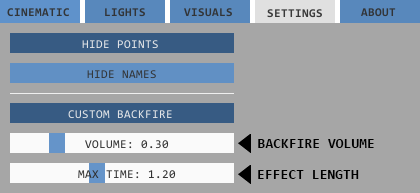
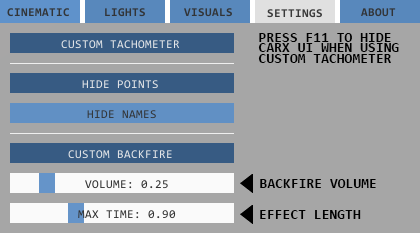
update readme for new release

diff --git a/README.md b/README.md
@@ -42,7 +42,7 @@ There you can set the starting and the ending points of your replay.
 
 ## Settings
 This tab has toggles for points counter and player nicknames  
-Now with custom backfire  
+Now with custom backfire and tachometer 
 More options will be added to this tab in the future.  
 ![Settings](Images/settings.png)  
 
